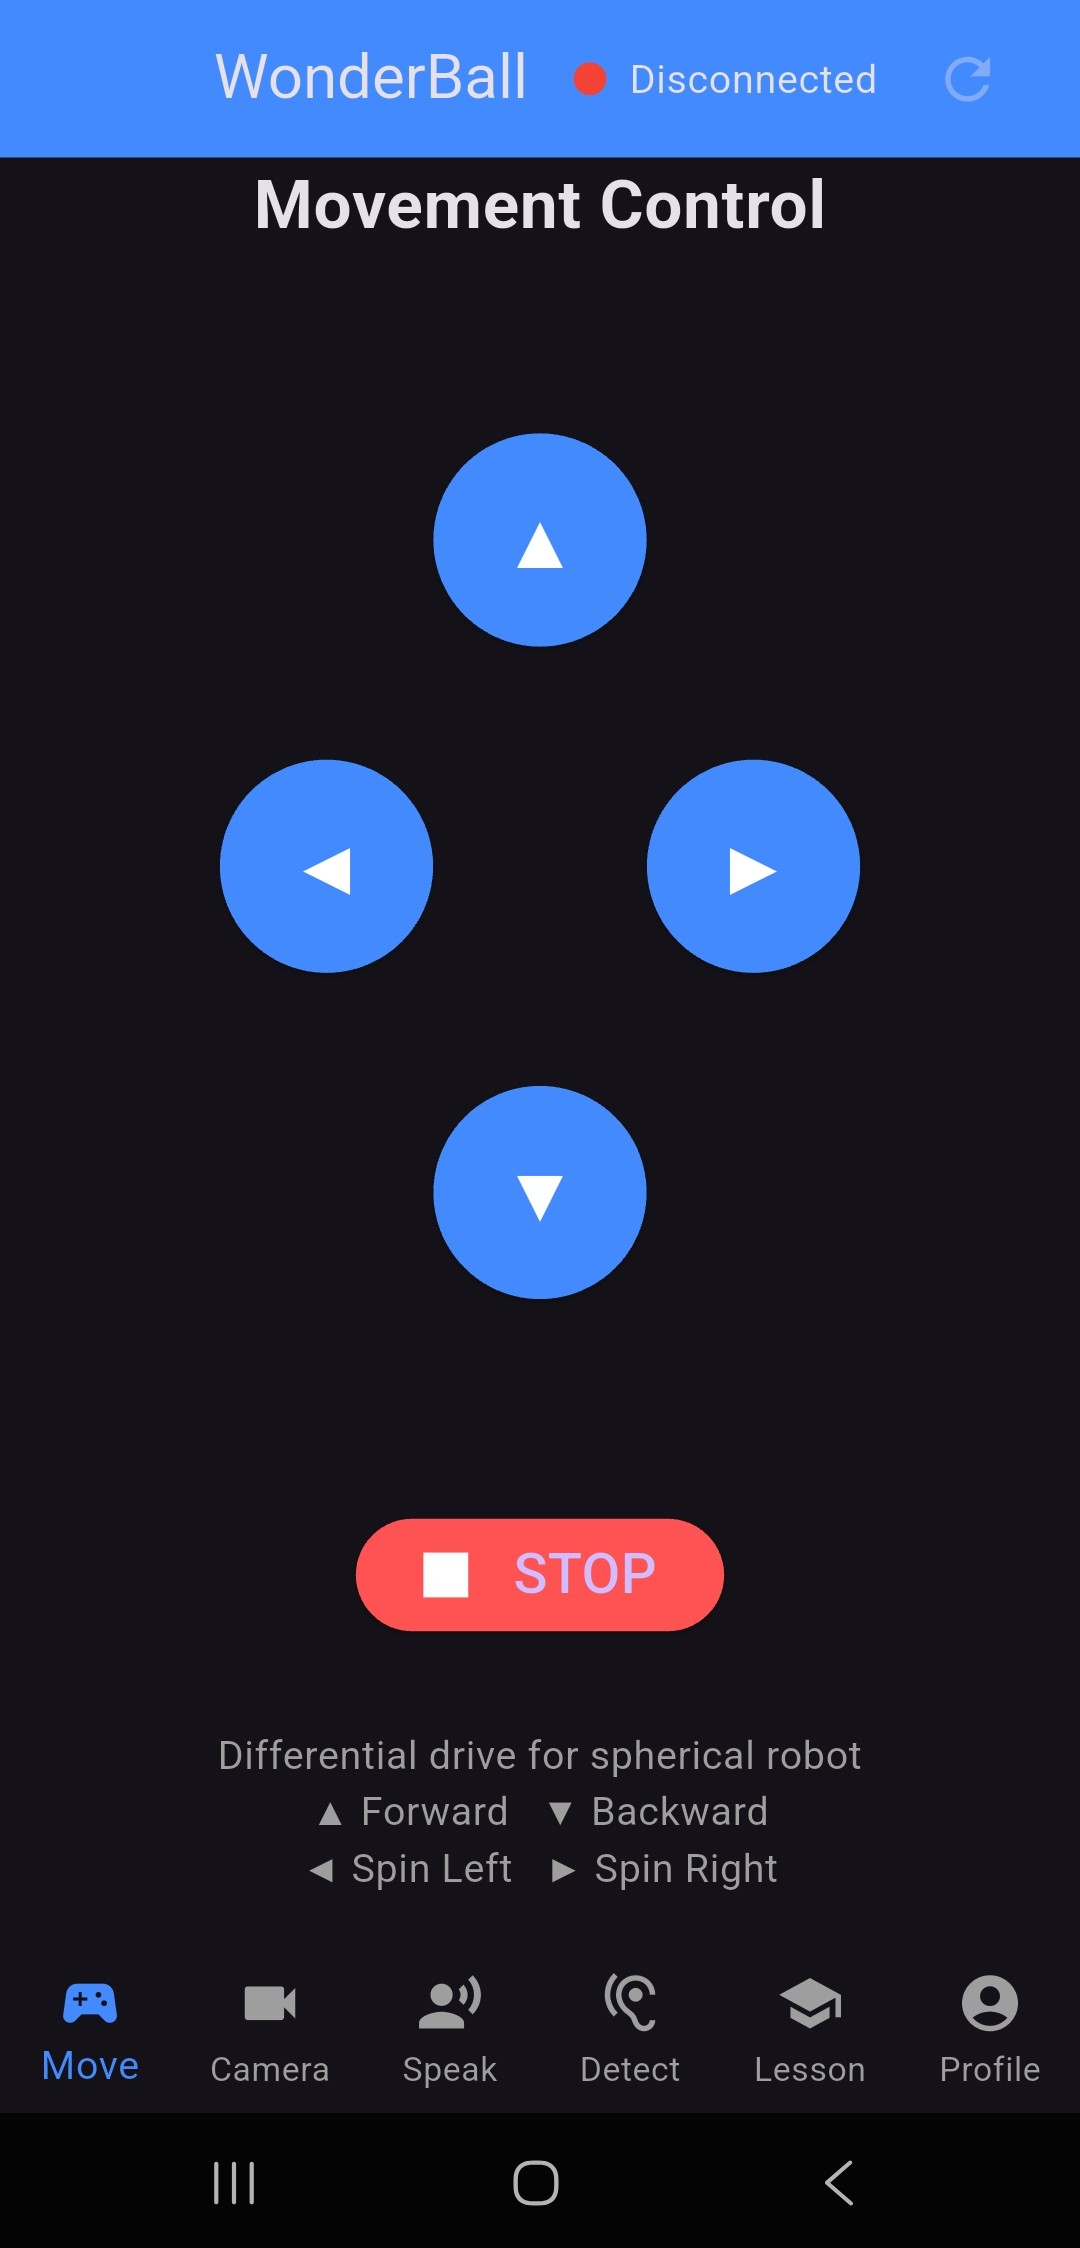
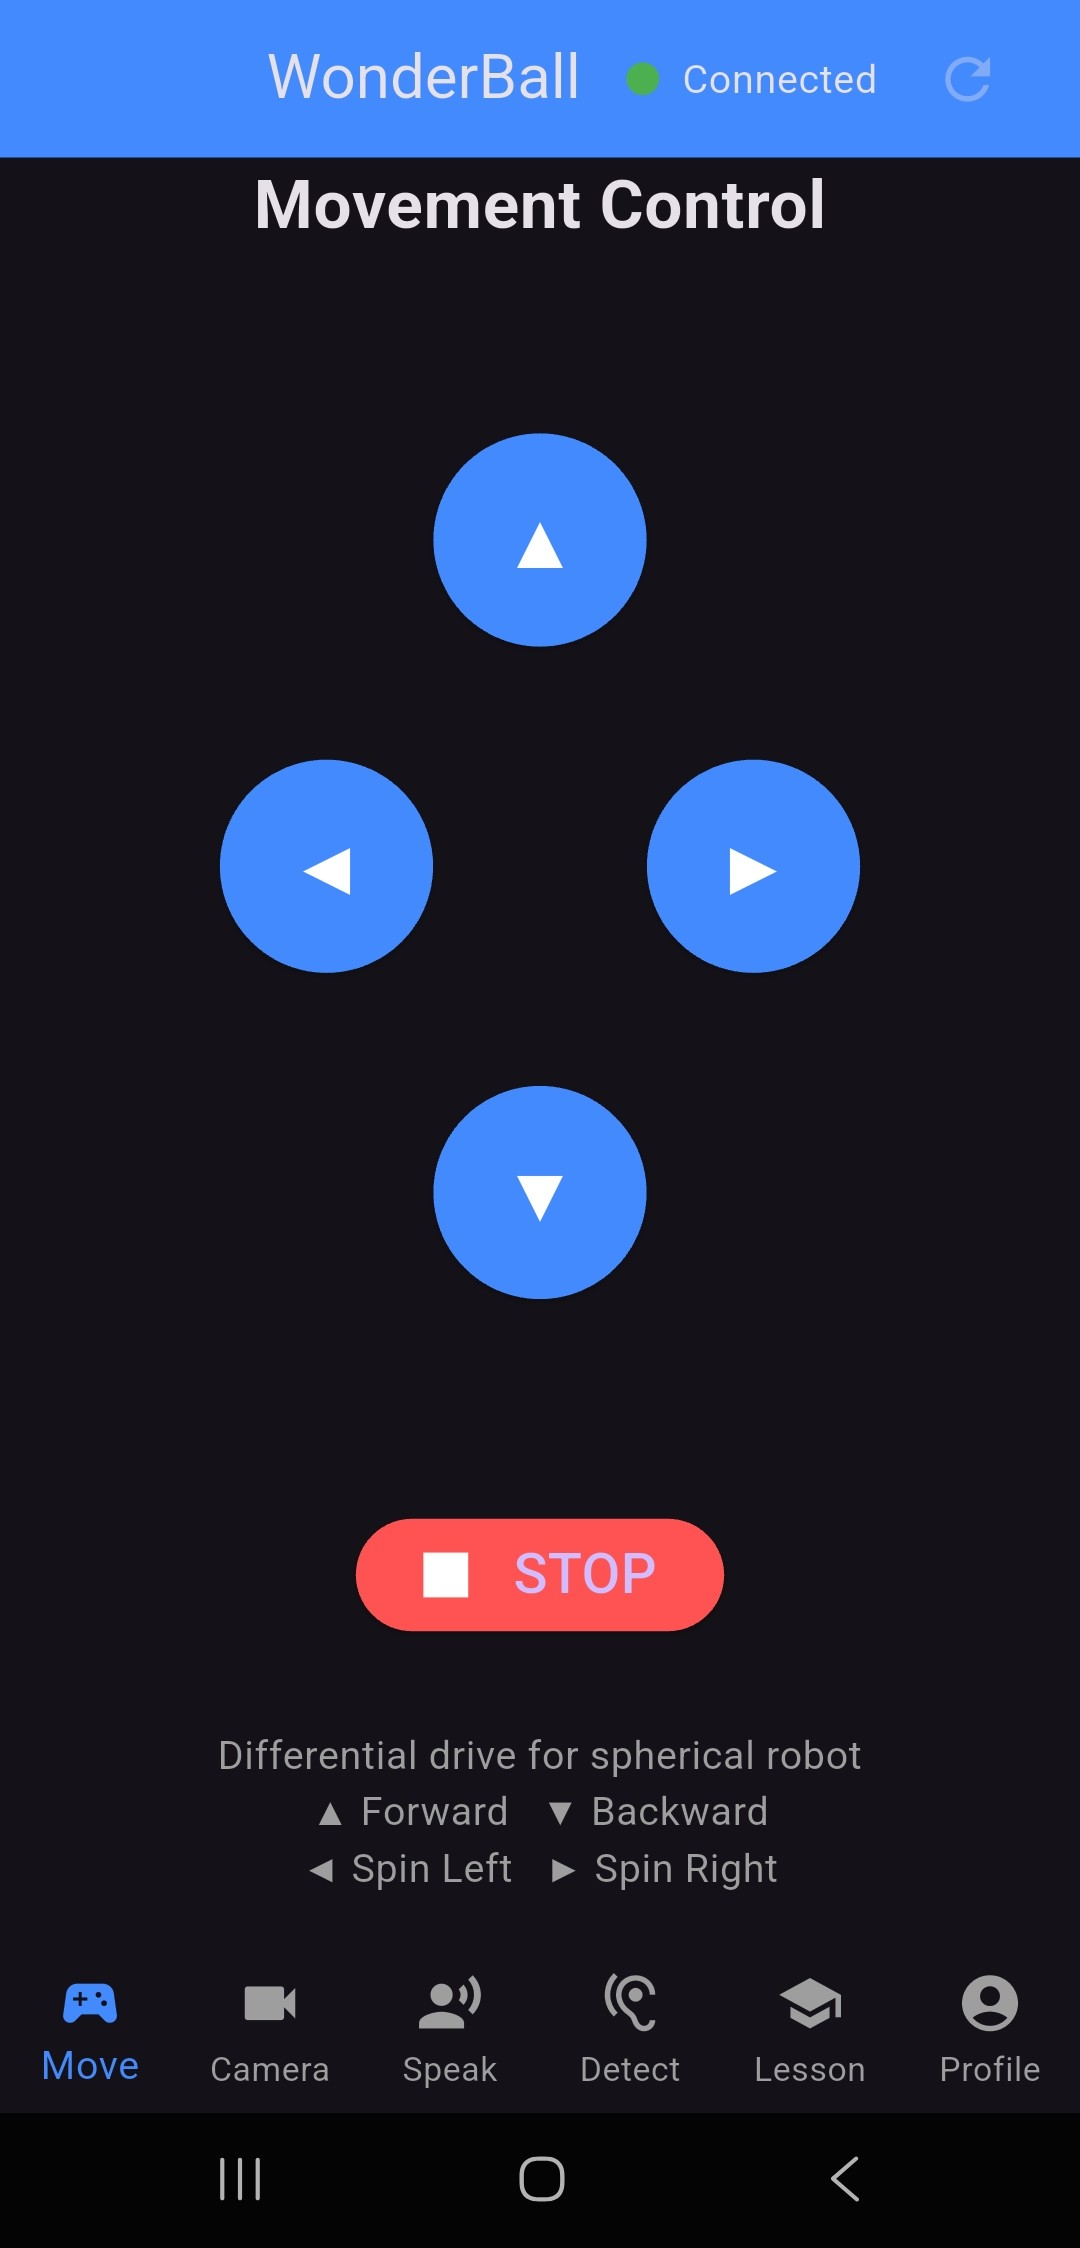
docs: update README screenshots to connected mode with all six app screens

diff --git a/README.md b/README.md
@@ -60,13 +60,15 @@ Bottom navigation pages currently implemented:
 
 ## App Screenshots
 
-Screenshots below are from offline demo mode (robot disconnected).
+Screenshots below are from online mode (robot connected).
 
-Camera and Detection screens are not included in this screenshot set.
+| Move | Camera | Speak |
+|---|---|---|
+| ![Movement screen](docs/images/readme/movement-screen.jpg) | ![Camera screen](docs/images/readme/camera-screen.jpg) | ![Speaker screen](docs/images/readme/speaker-screen.jpg) |
 
-| Lesson | Movement | Speaker | Profile |
-|---|---|---|---|
-| ![Lesson screen](docs/images/readme/lesson-screen.jpg) | ![Movement screen](docs/images/readme/movement-screen.jpg) | ![Speaker screen](docs/images/readme/speaker-screen.jpg) | ![Profile screen](docs/images/readme/profile-screen.jpg) |
+| Detect | Lesson | Profile |
+|---|---|---|
+| ![Detection screen](docs/images/readme/detection-screen.jpg) | ![Lesson screen](docs/images/readme/lesson-screen.jpg) | ![Profile screen](docs/images/readme/profile-screen.jpg) |
 
 ## Project Structure
 
